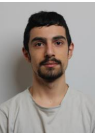
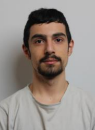
WEB-06

diff --git a/cvproject.css b/cvproject.css
@@ -44,8 +44,8 @@ header > div{
 }
 .cv-photo-container a{
     display: inline-block;
-    width: 150px;
-    height: 150px;
+    width: 160px;
+    height: 160px;
 }
 .cv-photo{
     border-radius: 50%;
@@ -333,8 +333,6 @@ header > div{
     padding: 32px;
     margin-bottom: 32px;
     box-shadow: 0 4px 6px rgba(0, 0, 0, 0.1);
-    transition: transform 0.3s ease;
-    width: 100%;
 }
 .opleiding:hover{
     transform: translateY(-5px);
@@ -369,6 +367,54 @@ table tr:nth-child(odd){
 .opleiding table td{
     padding: 16px;
     border-bottom: 1px solid #dee2e6;
+}
+.opleiding-cards{
+    display: none;
+    gap: 20px;
+    background: white;
+    border-radius: 10px;
+    padding: 32px;
+    margin-bottom: 32px;
+    box-shadow: 0 4px 6px rgba(0, 0, 0, 0.1);
+    transition: transform 0.3s ease;
+}
+.opleiding-cards:hover{
+    transform: translateY(-5px);
+}
+.opleiding-cards h2{
+    color: #2c3e50;
+    margin-bottom: 24px;
+    border-bottom: 2px solid #3498db;
+    padding-bottom: 8px;
+    display: inline-block;
+    font-size: 24px;
+    cursor: default;
+    vertical-align: top;
+}
+.opleiding-card{
+    background: #f8f9fa;
+    border-radius: 8px;
+    padding: 20px;
+    border-left: 4px solid #3498db;
+    transition: all 0.3s ease;
+    list-style: none;
+}
+.opleiding-card:hover{
+    transform: translateY(-5px);
+    background: #e1f0fa;
+}
+.opleiding-card-label{
+    color: #666;
+    font-weight: 500;
+    font-size: 14px;
+    margin-bottom: 4px;
+}
+.opleiding-card-content{
+    color: #2c3e50;
+    margin-bottom: 12px;
+}
+.opleiding-card-content:last-child{
+    margin-bottom: 0;
 }
 footer{
     background: #2c3e50;
@@ -411,6 +457,35 @@ footer button:hover{
 #button-to-top{
     min-width: 200px;
 }
+@media (max-width: 1280px){
+    .over-mij p {
+        font-size: 25px;
+    }
+    .profile-info{
+        font-size: 20px;
+    }
+    .werkervaring-list{
+        font-size: 20px;
+    }
+    .skills{
+        font-size: 20px;
+    }
+    .talen{
+        font-size: 20px;
+    }
+    .opleiding{
+        font-size: 20px;
+    }
+}
+@media (max-width: 1000px){
+    body{
+        font-size: 20px;
+    }
+    .opleiding-cards{
+        display: flex;
+        flex-direction: column;
+    }
+}
 @media (max-width: 768px) {
     a{
         padding: 8px;
@@ -429,13 +504,12 @@ footer button:hover{
     .talen{
         grid-template-columns: repeat(auto-fit, minmax(200px, 1fr));
     }
-    .opleiding table{
-        display: block;
-        overflow-x: auto;
-
+    .opleiding{
+        display: none;
     }
-    .opleiding table td, th{
-        min-width: 200px;
+    .opleiding-card{
+        display: flex;
+        flex-direction: column;
     }
     footer{
         flex-direction: column;
@@ -460,19 +534,18 @@ footer button:hover{
     .scroll-indicator{
         padding: 20px;
     }
-    .profile-info-item, .werkervaring-item, .talen-item{
+    .profile-info-item, .werkervaring-item{
         padding: 12px;
     }
     .talen{
         grid-template-columns: 1fr;
     }
-    .talen-item{
-        margin: 0 auto;
-        width: 100%;
+    .opleiding table{
+        display: none;
     }
-    table th, table td{
-        padding: 12px;
-        font-size: 14px;
+    .opleiding-cards{
+        display: flex;
+        flex-direction: column;
     }
     footer{
         padding: 20px;

diff --git a/cvproject.html b/cvproject.html
@@ -56,7 +56,7 @@
                 <div class="werkervaring-functie"><p>Financieel assistent</p></div>
                 <div class="werkervaring-bedrijf"><p>Virtueel bedrijf Enjoy</p></div>
                 <div class="werkervaring-periode"><p>Oktober 2023 - Februari 2024</p></div>
-                <div class="werkervaring-beschrijving"><p>Bijhouden van financiële transacties zoals facturen, ontvangsten en betalingen. Bijwerken van financiële gegevens in een ERP-systeem. Voorbereiden van financiële rapporten zoals winst- en verliesrekeningen, balansen en kasstroomoverzichten. </p></div>
+                <div class="werkervaring-beschrijving"><p>Bijhouden van financiële transacties zoals facturen, ontvangsten en betalingen. Bijwerken van financiële gegevens in een ERP-systeem. Voorbereiden van financiële rapporten zoals winst-en-verliesrekeningen, balansen en kasstroomoverzichten. </p></div>
             </li>
             <li class="werkervaring-item">
                 <div class="werkervaring-functie"><p>Aankoopdirecteur</p></div>
@@ -117,6 +117,25 @@
             </tbody>
         </table>
     </section>
+    <div class="opleiding-cards">
+        <h2>Opleiding</h2>
+        <ul class="opleiding-card">
+            <li class="opleiding-card-label"><p>Periode</p></li>
+            <li class="opleiding-card-content"><p>2020 - 2024</p></li>
+            <li class="opleiding-card-label"><p>Opleiding</p></li>
+            <li class="opleiding-card-content"><p>TSO Ondernemen & IT</p></li>
+            <li class="opleiding-card-label"><p>School</p></li>
+            <li class="opleiding-card-content"><p>Don Bosco college Hechtel</p></li>
+        </ul>
+        <ul class="opleiding-card">
+            <li class="opleiding-card-label"><p>Periode</p></li>
+            <li class="opleiding-card-content"><p>2024 - huidig</p></li>
+            <li class="opleiding-card-label"><p>Opleiding</p></li>
+            <li class="opleiding-card-content"><p>Graduaat Programmeren</p></li>
+            <li class="opleiding-card-label"><p>School</p></li>
+            <li class="opleiding-card-content"><p>Hogeschool PXL Hasselt</p></li>
+        </ul>
+    </div>
 </div>
 <footer>
     <div class="footer-list">
